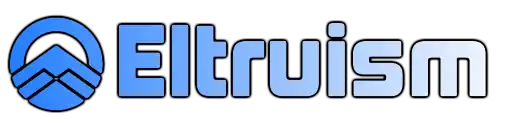
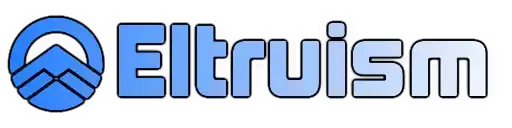
better buttons

diff --git a/index.html b/index.html
@@ -26,9 +26,9 @@
 				color: #FFFFFF;
 				text-align: center;
 				text-shadow: 0px 0px 5px #000000;
-				font-size: 22px;
-				padding: 20px;
-				width: 200px;
+				font-size: clamp(1rem, 1.5vw, 1.5rem);
+				padding:0.35em 1.2em;
+				width: 0.35em 1.2em;
 				transition: all 0.5s;
 				cursor: pointer;
 				margin: 5px;
@@ -40,6 +40,7 @@
 				display: inline-block;
 				position: relative;
 				transition: 0.5s;
+				font-size: clamp(1rem, 1.5vw, 1.5rem);
 			}
 			.button span:after {
 				content: '\00bb';
@@ -64,22 +65,8 @@
 		</style>
 	</head>
 	<body>
-		<h1 align="center"><img src="name.webp" style="
-			max-width: 50%;
-			height: auto;
-			display: block;
-			margin-left: auto;
-			margin-right: auto;
-		"/></h1>
-		<p>
-		<bar align="center"><img src="bar.webp" style="
-			width: 1000px;
-			height: 2px;
-			max-width: 60%;
-			display: block;
-			margin-left: auto;
-			margin-right: auto;
-		">
+		<h1 align="center"><img src="name.webp" style="max-width:15%;height:auto;display:block;margin-left:auto;margin-right:auto;"/></h1>
+		<bar align="center"><img src="bar.webp" style="width:1000px;height:2px;max-width:60%;display:block;margin-left:auto;margin-right:auto;">
 		<p align="center">ElvUI Plugin for World of Warcraft that adds
 			<span style="--bg-size: 200%;--c1: #ff3e02;--c2: #ff7c0a;
 				background: linear-gradient(90deg,var(--c1),var(--c2),var(--c1)) 0 0 / var(--bg-size) 100%;
@@ -89,25 +76,20 @@
 				animation: cyclegradient 5s infinite linear;
 			">gradients</span> to a lot of things</p>
 		<img src="https://github.com/eltreum0/eltruism/raw/main/Screenshots/Preview1.webp" style="
-				border-radius: 5px;
-				max-width: clamp(30%, 45%, 60%);
-				height: auto;
-				display: block;
-				margin-left: auto;
-				margin-right: auto;
-			">
-		<button class="button" onclick="window.location.href='https://github.com/eltreum0/eltruism/releases/latest';"><span>Download</span></button>
-		<button class="button" onclick="window.location.href='https://discord.gg/rBXNxUY6pk';"><span>Discord</span></button>
-		<button class="button" onclick="window.location.href='https://github.com/eltreum0/eltruism/issues/new/choose';"><span>Support</span></button>
-		<p>
-		<bar align="center"><img src="bar.webp" style="
-			width: 1000px;
-			height: 2px;
-			max-width: 60%;
+			border-radius: 5px;
+			max-width: clamp(30%, 45%, 60%);
+			height: auto;
 			display: block;
 			margin-left: auto;
 			margin-right: auto;
-		">
+			box-shadow: 0px 0px 5px #7fb2ff;
+			-moz-box-shadow: 0px 0px 5px #7fb2ff;
+			-webkit-box-shadow: 0px 0px 5px #7fb2ff;
+			-khtml-box-shadow: 0px 0px 5px #7fb2ff;">
+		<button class="button" onclick="window.location.href='https://github.com/eltreum0/eltruism/releases/latest';"><span>Download</span></button>
+		<button class="button" onclick="window.location.href='https://discord.gg/rBXNxUY6pk';"><span>Discord</span></button>
+		<button class="button" onclick="window.location.href='https://github.com/eltreum0/eltruism/issues/new/choose';"><span>Support</span></button>
+		<bar align="center"><img src="bar.webp" style="width:1000px;height:2px;max-width:60%;display:block;margin-left:auto;margin-right:auto;">
 		<p align="center">© 2023 Eltreum</p>
 	</body>
 </html>
